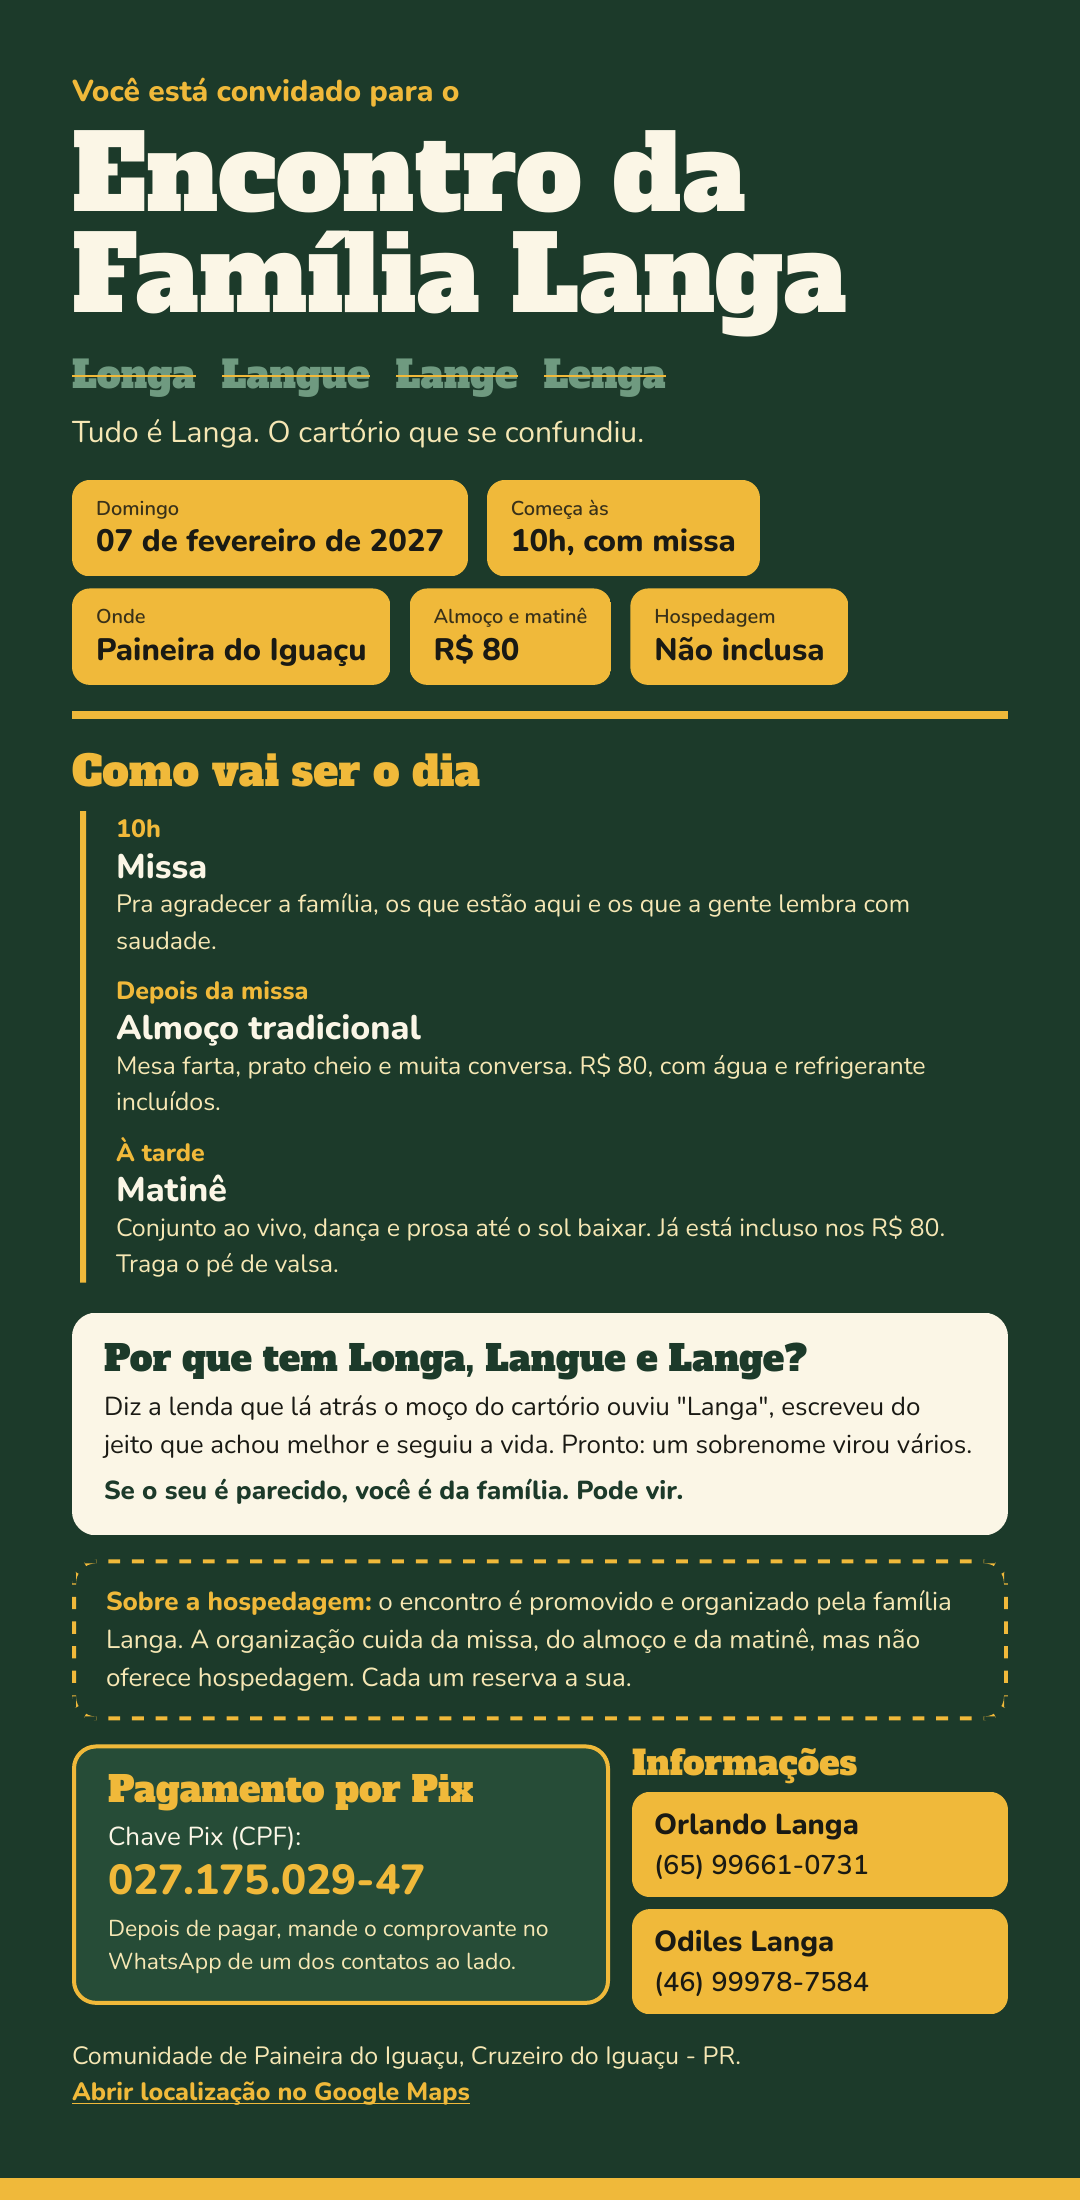
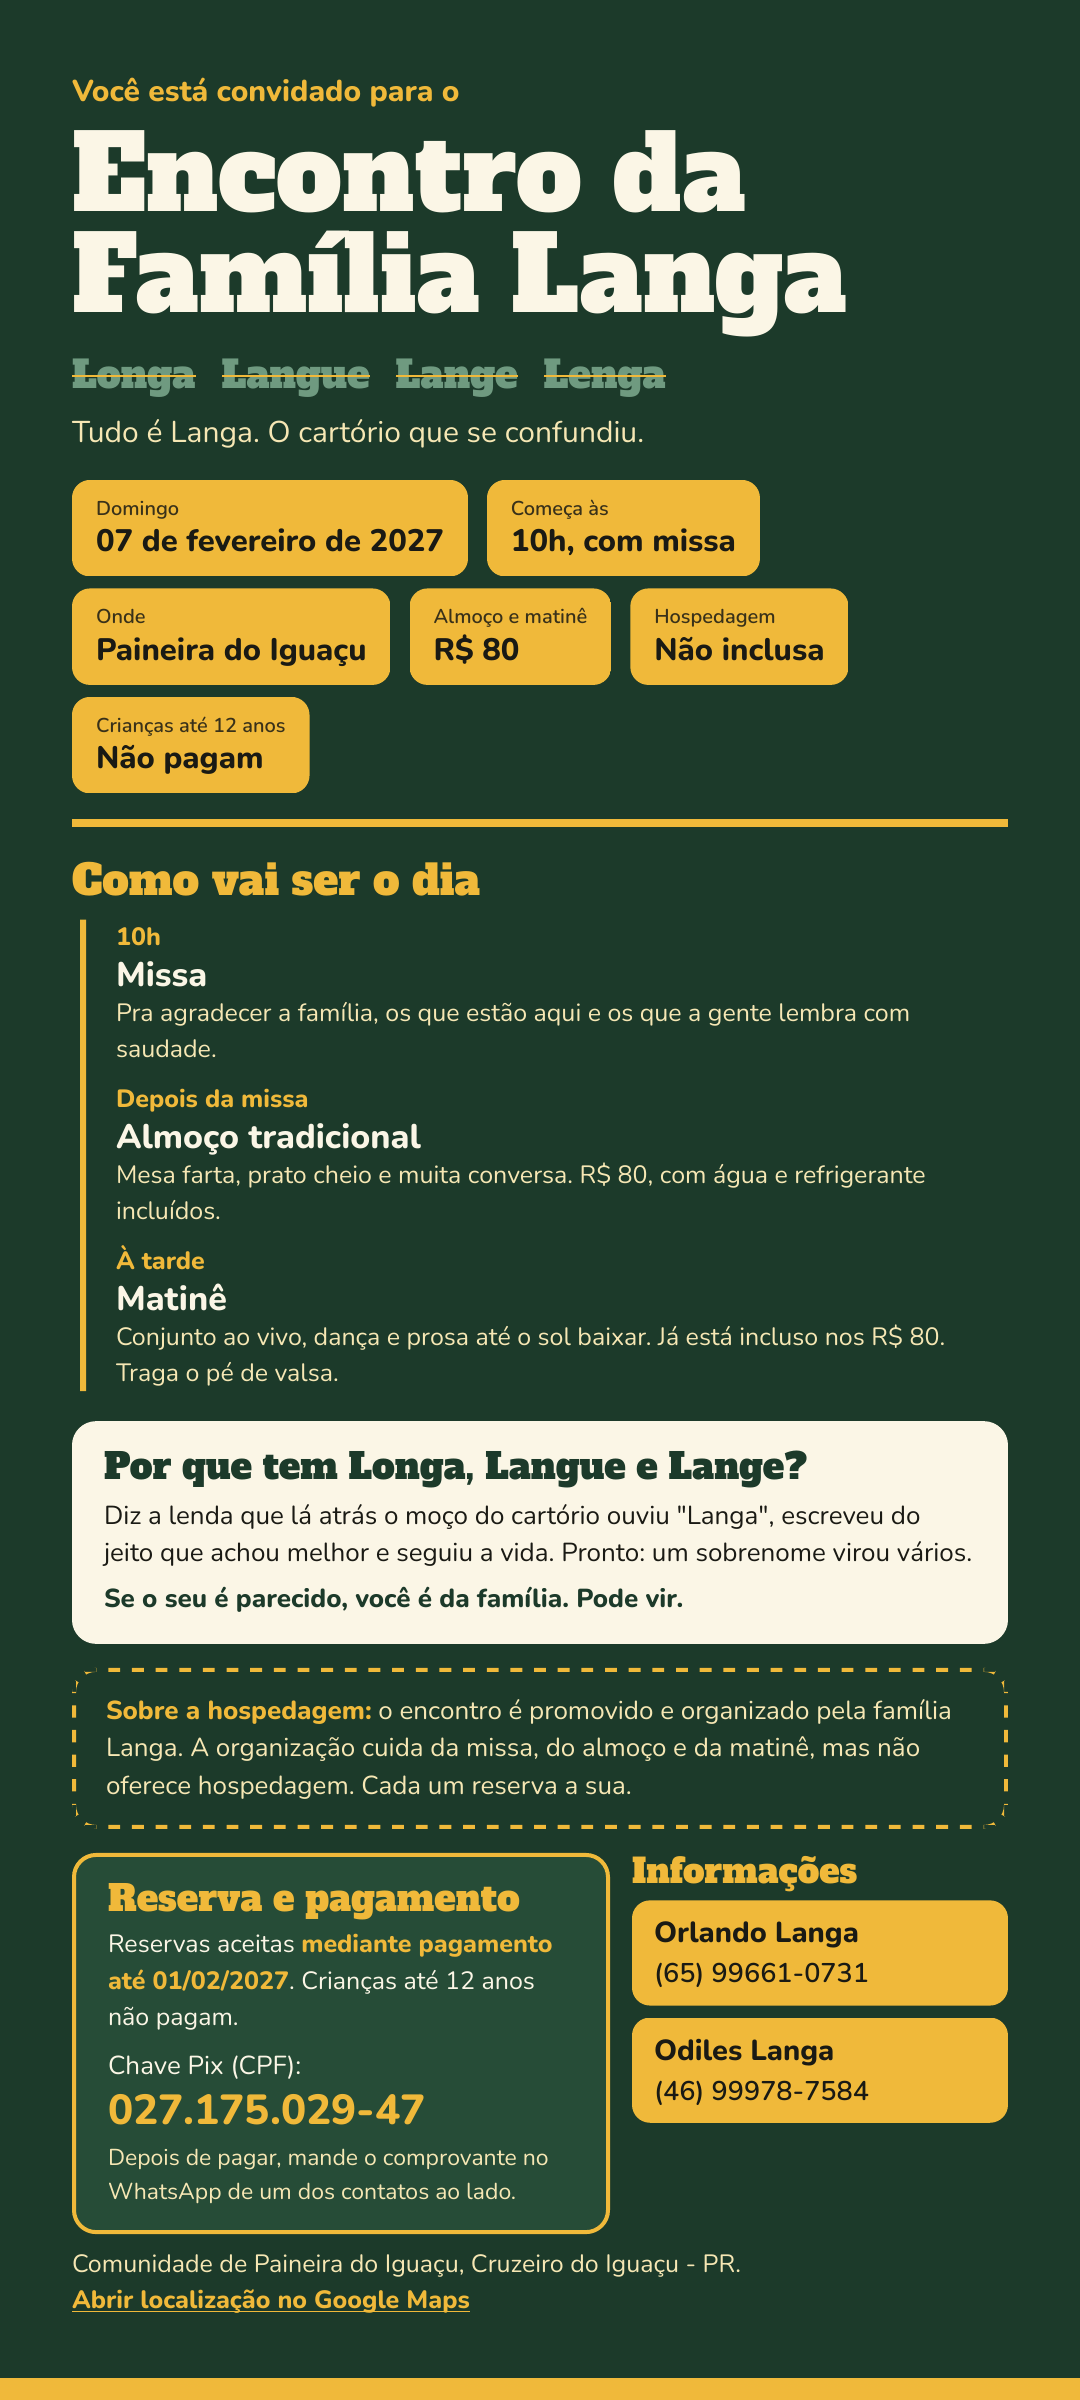
data reserva

Changed region(s): [[0.0611, 0.0309, 0.9472, 0.9891]]

diff --git a/app/page.js b/app/page.js
@@ -25,6 +25,8 @@ export default function Home() {
             <div className="chip"><small>Onde</small><b>Paineira do Iguaçu</b></div>
             <div className="chip"><small>Almoço e matinê</small><b>{CONFIG.valorAlmoco}</b></div>
             <div className="chip"><small>Hospedagem</small><b>Não inclusa</b></div>
+            <div className="chip"><small>Crianças até 12 anos</small><b>Não pagam</b></div>
+            <div className="chip"><small>Reservas até </small><b>{CONFIG.prazoReserva}</b></div>
           </div>
         </div>
       </header>
@@ -42,7 +44,7 @@ export default function Home() {
               <li>
                 <div className="hora">Depois da missa</div>
                 <h3>Almoço tradicional</h3>
-                <p>Mesa farta, prato cheio e muita conversa. Valor: {CONFIG.valorAlmoco}, com água e refrigerante incluídos.</p>
+                <p>Mesa farta, prato cheio e muita conversa. Valor: {CONFIG.valorAlmoco}, com água e refrigerante incluídos. Crianças até 12 anos não pagam.</p>
               </li>
               <li>
                 <div className="hora">À tarde</div>
@@ -102,8 +104,10 @@ export default function Home() {
 
         <section>
   <div className="wrap">
-    <h2>Pagamento por Pix</h2>
+    <h2>Reserva e pagamento por Pix</h2>
     <div className="pix">
+      <p>Reservas aceitas <b>mediante pagamento até {CONFIG.prazoReserva}</b>.
+  Crianças até 12 anos não pagam.</p>
       <p>Valor: {CONFIG.valorAlmoco}, com almoço, bebidas* e matinê.</p>
       <p className="chave">Chave Pix (CPF): <b>{CONFIG.pix.chave}</b></p>
       <p>Titular: {CONFIG.pix.titular}</p>

diff --git a/lib/config.js b/lib/config.js
@@ -4,6 +4,7 @@ export const CONFIG = {
   horaMissa: "10h",
   valorAlmoco: "R$ 80",
   mensagem: "Olá! Quero informações sobre o Encontro da Família Langa.",
+  prazoReserva: "01/02/2027",
   contatos: [
     {
       nome: "Orlando Langa",
